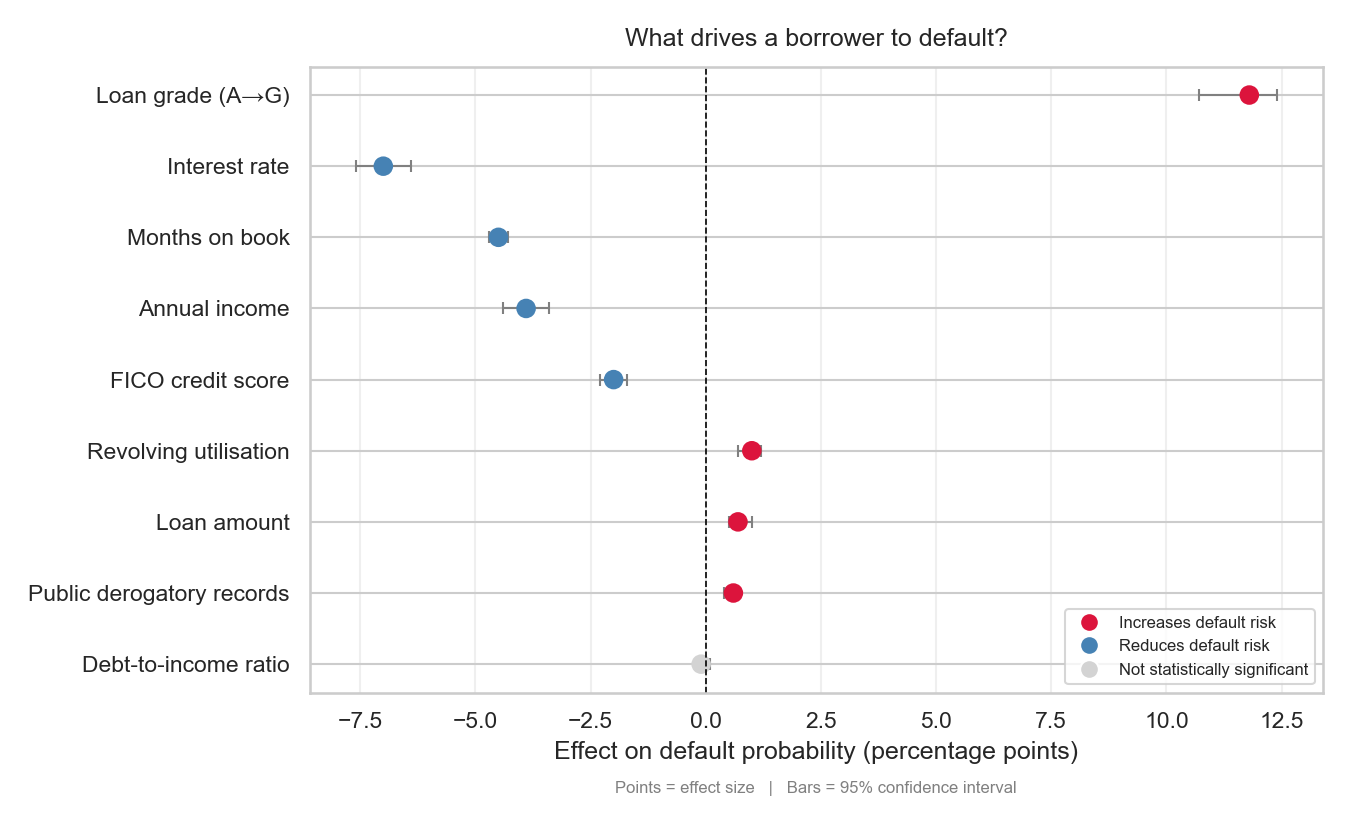
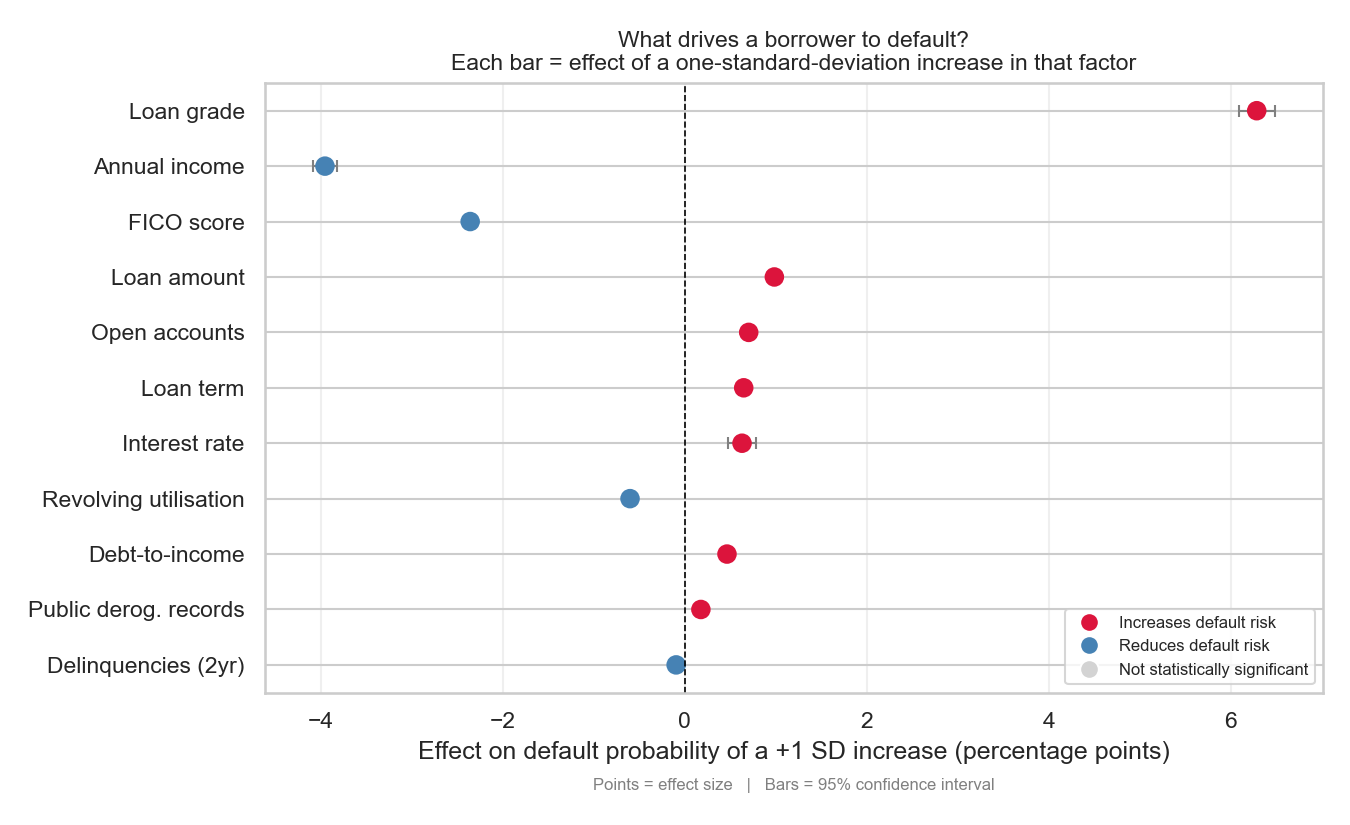
Refine marginal-effects chart to per-SD basis; align README and figures
- Rebuild the "what drives default" chart from live per-1-SD average
  marginal effects (was hardcoded old-model values including the leaked
  months_obs and a spurious negative interest-rate effect); label the SD basis
- Regenerate marginal_effects.png and buffer_scenarios.png
- README: fix delinquency-by-grade (3.6%->40.0%), align LGD variance table,
  reword section 3, reframe r/ and stata/ as planned
- 04_buffer: correct stale "11.9%" scenario label to 12.9%
- Rename gitignore -> .gitignore so data/ and checkpoints are actually ignored

diff --git a/README.md b/README.md
@@ -4,7 +4,7 @@
 
 This project analyses 2.26 million loans issued between 2007 and 2018 to answer one practical question: *when borrowers stop paying, how much money should a lender hold in reserve to stay solvent?*
 
-It is built in three languages — **Python** (complete), **R** (in progress), and **STATA** (in progress) — each producing the same analysis independently.
+It is built in **Python** (complete), with **R** and **STATA** implementations planned to reproduce the same analysis independently.
 
 ---
 
@@ -52,7 +52,7 @@ The project moves from understanding the data, to modelling risk, to sizing the 
 
 The first step is exploring who borrows and how loans are graded. Lending Club assigns each loan a grade from A (safest) to G (riskiest), and that grade turns out to be the strongest single signal of risk.
 
-**Delinquency rises steeply with grade** — from 3.3% for Grade A loans to 38.1% for Grade G.
+**Delinquency rises steeply with grade** — from 3.6% for Grade A loans to 40.0% for Grade G.
 
 ![Delinquency rate by loan grade](output/figures/delinquency_by_grade.png)
 
@@ -70,7 +70,7 @@ Grouping loans by the quarter they were issued reveals how different "vintages" 
 
 A logistic regression model predicts whether each loan will become 90 days delinquent. It separates risk well (AUC = 0.68), which is solid for an application-time model — meaning it uses only information available at the point a loan is issued, with no look-ahead into future payment history.
 
-More useful than the score is *what the model learned*. Each factor's effect is shown below in percentage points of default risk, with bars showing the 95% confidence interval. Loan grade dominates; higher income and better credit scores are the strongest protective factors.
+More useful than the score is *what the model learned*. Each bar below shows how much a one-standard-deviation increase in a factor moves a borrower's default probability — in percentage points, with 95% confidence intervals — which puts every factor on a common footing. Loan grade dominates; higher income and a better credit score are the strongest protective factors.
 
 ![What drives a borrower to default](output/figures/marginal_effects.png)
 
@@ -104,12 +104,12 @@ The loss model has an oddity: the coefficient on grade comes out *negative*, imp
 
 | Variable (on its own) | Share of loss severity explained |
 |---|---|
-| **Months on book** | **68.8%** |
-| Revolving utilisation | 0.8% |
-| FICO score | 0.6% |
+| **Months on book** | **68.9%** |
+| Revolving utilisation | 0.9% |
+| FICO score | 0.8% |
 | Loan term | 0.6% |
-| Interest rate | 0.5% |
 | Loan amount | 0.4% |
+| Interest rate | 0.4% |
 | Loan grade | 0.1% |
 | Annual income | 0.0% |
 | Debt-to-income | 0.0% |
@@ -178,8 +178,8 @@ Set a borrower's profile and you immediately see their probability of default, e
 │   ├── 03_models.ipynb   ← Stage 1 (default) + Stage 2 (loss)
 │   ├── 04_buffer.ipynb   ← buffer sizing and stress tests
 │   └── requirements.txt
-├── r/                    ← R implementation (in progress)
-├── stata/                ← STATA implementation (in progress)
+├── r/                    ← R implementation (planned — not yet present)
+├── stata/                ← STATA implementation (planned — not yet present)
 ├── output/figures/       ← all charts
 └── README.md
 ```